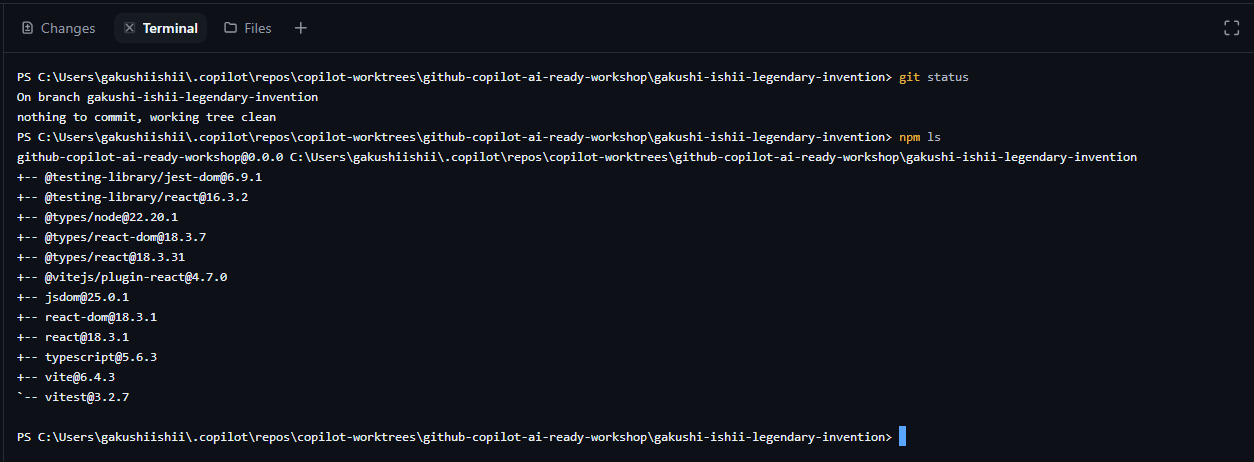
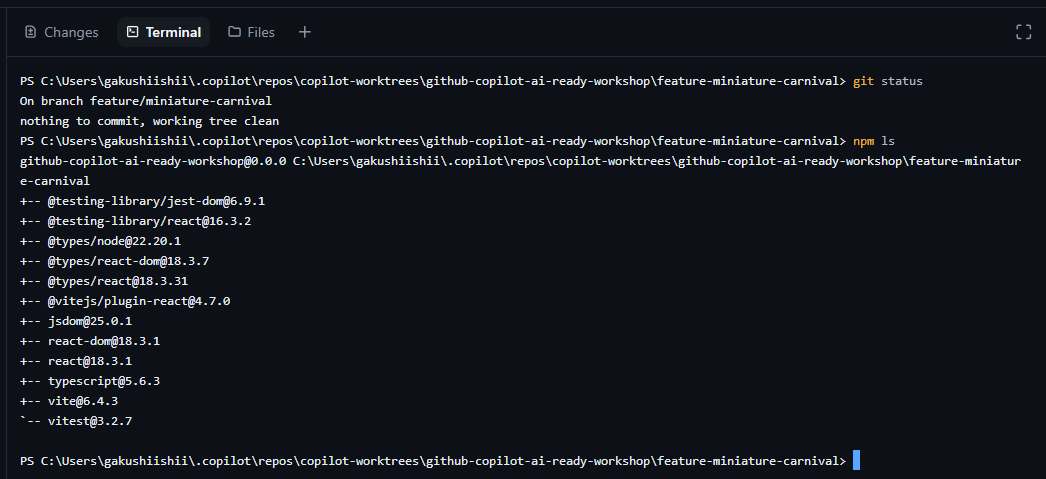
手順の説明を明確化し、GitHub Flow に沿った運用を強調。新しい画像を追加。

Changed region(s): [[0.0, 0.1515, 0.979, 0.9091], [0.0, 0.0303, 1.0, 0.1212], [0.0, 0.9091, 0.826, 1.0]]

diff --git a/lab/00-setup-and-preflight.md b/lab/00-setup-and-preflight.md
@@ -80,12 +80,11 @@ npm view react-router-dom version engines peerDependencies --json
 
 ![Branch prefix override に feature/ を設定する画面](./images/00-branch-prefix-override.png)
 
-この設定をしておくと、次の手順 6 で作成するワークツリーのブランチ名に `feature/` が自動で付与され、
-GitHub Flow に沿った「feature ブランチ → Pull Request → `main`」の運用をデモできる。
+この設定をしておくと、次の手順 6 で作成するワークツリーのブランチ名に `feature/` が自動で付与され、チームの GitHub Flow に沿った運用ができる。
 
 ### 6. 新しいワークツリーを作成し、自動でパッケージがインストールされたことを確認する。
 
-プロジェクトから新しいセッションを作成し、**New worktree** を選ぶ。プロンプトを実行して初めて新しいワークスペースが作成されるため、以下 Shell コマンドを実行する。
+プロジェクトから新しいセッションを作成し、**New worktree** を選ぶ。プロンプトを実行して初めて新しいワークスペースが作成されるため、以下 Shell コマンドを実行する。併せてブランチ名を確認する。
 
 ```shell
 git status
@@ -99,8 +98,6 @@ git status
 > - ワークツリーのメリットを享受できる。
 > - Setup スクリプトで初回に毎度 `npm ci` が実行されるため、すべてのワークツリーで `package-lock.json` に準拠した依存関係バージョンが使用できる。
 > - セッションごとに `feature/` プレフィックスの付いた短命な作業ブランチが自動生成される。
->   実装を始める Lab で `feature/` に続く部分を作業項目が分かる名前へリネームし、
->   `main` への反映は Pull Request で行う（GitHub Flow）。
 
 ### 7. Run と Canvas を確認する
 
@@ -108,15 +105,15 @@ git status
 
 ![Browser Canvas に表示された Outdoor eShop](./images/00-run-browser-canvas.png)
 
-## 期待する結果 / 残る成果物
+## 期待する結果
 
 - Fork したリポジトリがプロジェクトに追加されている。
-- Setup スクリプトで依存がインストールされている。
-- Branch prefix override に `feature/` が設定されている。
-- New worktree のセッションが作成され、起動している。
-- `main` とは別の、`feature/` プレフィックスが付いた自動生成の作業ブランチ上にいる。
-- セッション上の shell コマンドで worktree の状態と npm レジストリへの疎通が確認できている。
-- Run でアプリが起動し、Canvas で表示できる。
+- Quick Chat が応答を返す。
+- GitHub Copilot App から shell コマンドが実行できる。
+- ワークツリーが `C:\Users\xxx\.copilot\repos\copilot-worktrees\github-copilot-ai-ready-workshop\feature-xxx` に作成され、新しいセッションが立ち上がっている。
+- ワークツリーでは `main` とは別の、`feature/` プレフィックスが付いた自動生成の作業ブランチ上にいる。
+- Setup スクリプトで新しく作成されたワークツリー環境に依存がインストールされている。
+- Run で正常にアプリが立ち上がりし、Browser Canvas タブで Web UI が確認できる。
 
 > うまくいかない場合は [講師ガイド](./instructor-guide.md#lab-00-復旧) を参照。
 